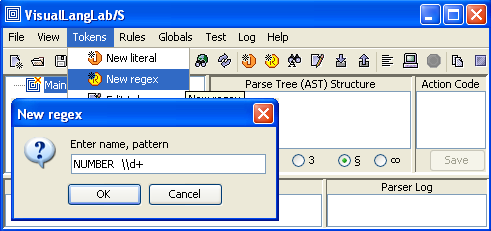
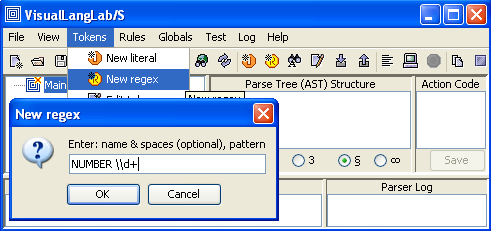
Documentation changes for binary rel 10.37
git-svn-id: https://svn.java.net/svn/vll~svn/trunk@421 c0272bae-d8de-c28f-bcdf-8b42aff4940e

diff --git a/VLLS/docs/RapidPrototypingForScala.html b/VLLS/docs/RapidPrototypingForScala.html
@@ -66,32 +66,6 @@ A simpler tutorial is available at
 VisualLangLab - Grammar without Tears</a>.
 </p>
 
-<h3 id="EssentialJargon">Essential Jargon</h3>
-
-<ul style="list-style-type: disc;">
-  <li><i>parser</i> (with lower-case inital <i>p</i>) - in <a href="http://vll.java.net/">VisualLangLab</a> documentation, 
-    a parser is an <i>entire</i> program or function for 
-    <a href="http://en.wikipedia.org/wiki/Parsing#Parser" target="_blank">parsing and processing input</a> 
-     in a certain format. </li>
-  <li><i>parser-rule</i> - the 
-    <a href="http://en.wikipedia.org/wiki/Formation_rule" target="_blank">simpler units</a> 
-    into which a parser is normally broken down. 
-    In a Scala combinator-based parser, each <code>def ... : Parser[...] = ...</code> 
-    is a parser-rule. Parser-rule and grammar-tree are generally synonymous terms.</li>
-  <li><i>grammar-tree</i> - the visual tree used to represent each parser-rule 
-    in <a href="http://vll.java.net/">VisualLangLab</a>. Grammar-tree and 
-    parser-rule are generally synonymous terms.</li>
-  <li><i>Parser</i> (with upper-case inital <i>P</i>) - a 
-    <a href="http://www.scala-lang.org/api/current/scala/util/parsing/combinator/Parsers$Parser.html" target="_blank">Scala type</a> used to 
-    implement <i>parser-rule</i>s as well as the component nodes of parser-rules</li>
-</ul>
-
-<p>
-Version 10 is written in Java, and does not use Scala parser combinators. However, it 
-still uses Java translations of some elements of the <code>scala.util.parsing.combinator</code> 
-package. In that sense, VisualLangLab is still a <i>Scala combinator-based parser</i>.
-</p>
-
 <h2>Download and Run VisualLangLab</h2>
 
 <p>

diff --git a/VLLS/docs/EditingTheGrammarTree.html b/VLLS/docs/EditingTheGrammarTree.html
@@ -401,6 +401,10 @@ Note that the pattern should be written as it would be in a literal
 Token names should ideally have high mnemonic value, and are conventionally in all upper case. 
 </p>
 
+<p>
+It is conventional to assign names to regex tokens, but VisualLangLab also allows you to skip the user-specified name, allowing the default name ("\\d+" for the example above) to be assigned instead.
+</p>
+
     <p>
       Two tokens may obviously not have the same name. 
       Two tokens may also not have the same pattern part if both of them are 

diff --git a/VLLS/docs/GrammarWithoutTears2/GrammarWithoutTears2.html b/VLLS/docs/GrammarWithoutTears2/GrammarWithoutTears2.html
@@ -124,6 +124,10 @@ Figure-4 below shows how you can create a <i>regex</i> token. Select <i>Tokens -
 </p>
 
 <p>
+It is conventional to assign names to regex tokens, but VisualLangLab also allows you to skip the user-specified name, allowing the default name ("\\d+" for the example above) to be assigned instead.
+</p>
+
+<p>
 Observe that the pattern part in the dialogs above (for literal as well as regex tokens) should be written exactly as if they were inside a <i>String</i> in a Java program (without the surrounding quote marks).
 </p>
 
